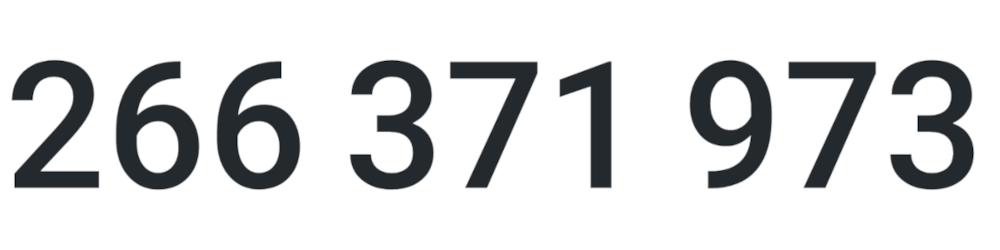
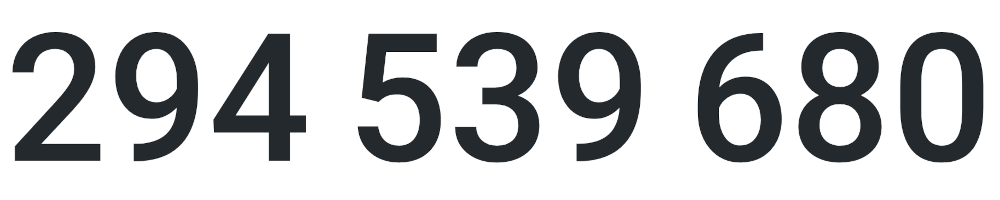
update indicators from february 2023 to march 2023

Changed region(s): [[0.682, 0.15, 0.992, 0.81], [0.341, 0.15, 0.651, 0.81], [0.0, 0.15, 0.31, 0.81]]

diff --git a/pages/indicateurs.js b/pages/indicateurs.js
@@ -20,20 +20,20 @@ function Indicateurs() {
           Cette page d’indicateurs ne reflète qu’une partie des usages. Sont ici représentés les usages de l’API adresse et non les usages de téléchargement des fichiers adresse. Néanmoins, les exploitations de l’API sont une illustration relativement fidèle des usages de l’adresse et de la typologie des utilisateurs.<br />
           Les statistiques sont présentées sur une périodicité mensuelle et sont issues des données brutes d’exploitation.<br />
           Ces données seront régulièrement enrichies afin de donner une lecture la plus fidèle des usages de la BAN.<br />
-          Date de dernière mise à jour : Mars 2023
+          Date de dernière mise à jour : Avril 2023
         </SectionText>
       </Section>
 
-      <Section title='Nombre de requêtes' subtitle='en février 2023' >
-        <Image src='/images/indicateurs/nb_requetes.png' height={250} width={1000} />
+      <Section title='Nombre de requêtes' subtitle='en mars 2023' >
+        <Image src='/images/indicateurs/nb_requetes.png' height={200} width={1000} />
       </Section>
 
-      <Section title='Part public-privé' subtitle='en février 2023' background='grey'>
+      <Section title='Part public-privé' subtitle='en mars 2023' background='grey'>
         <Image src='/images/indicateurs/part_public.png' height={550} width={1000} />
       </Section>
 
-      <Section title='Ils nous font confiance' subtitle='Les 5 plus gros utilisateurs publics en février 2023'>
-        <Image src='/images/indicateurs/top5.png' height={590} width={1000} />
+      <Section title='Ils nous font confiance' subtitle='Les 5 plus gros utilisateurs publics en mars 2023'>
+        <Image src='/images/indicateurs/top5.png' height={520} width={1000} />
       </Section>
 
     </Page>
